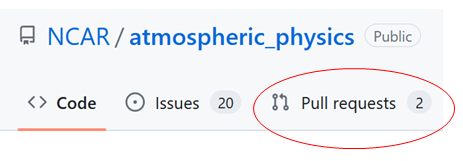
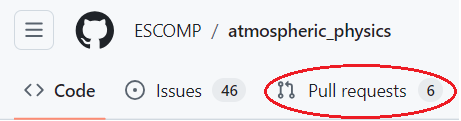
wee cleanup

diff --git a/docs/atmospheric_physics/development_workflow.md b/docs/atmospheric_physics/development_workflow.md
@@ -1,18 +1,18 @@
 # Development workflow for atmospheric_physics
 
-This page describes the general workflow for adding new developments to the [atmospheric_physics](https://github.com/ESCOMP/atmospheric_physics) repo, which is the location of all CGD developed CCPP-ized physics schemes and Suite Definition Files (SDFs).
+This page describes the general workflow for adding new developments to the [atmospheric_physics](https://github.com/ESCOMP/atmospheric_physics) repo, which is the location of all CGD-developed CCPP-ized physics schemes and Suite Definition Files (SDFs).
 
 ## Workflow summary
 
 The general workflow for adding a feature, bug-fix, or modification to atmospheric_physics is as follows:
 
-  1.  **Open an issue.**
-  2.  **Add your code modifications to a branch on your fork.**
-  3.  **Open a PR from your branch to the `development` branch.**
+  1.  [**Open an issue.**](#1-open-an-issue)
+  2.  **[Add your code modifications](#3-update-your-code-with-changes-from-the-official-repo) to a branch on your [fork](#2-create-a-fork-if-you-havent-already).**
+  3.  **[Open a PR](#5-creating-a-pull-request-pr) from your branch to the `development` branch.**
   4.  **Respond to any reviewer requests.**
   5.  **Fix any failing tests.**
-  6.  **Update `doc/NamesNotInDictionary.txt` file.**
-  7.  **If you know that this PR will need an official tag, then also add the tag name to the PR description.**
+  6.  **[Update `doc/NamesNotInDictionary.txt` file.](#updating-namesnotindictionarytxt-file)**
+  7.  **If you know that this PR will need an official tag, then also add the [tag name](Tagging-Instructions.md/#tag-naming-conventions) to the PR description.**
   8.  **Squash the commits and merge the PR (e.g. the "squash and merge" option).**
 
 If you need an official tag for your new additions, then once your `development` PR has been merged you will need to do the following:
@@ -32,7 +32,7 @@ It is generally recommended to [open an issue](https://github.com/ESCOMP/atmosph
 
 ### 2.  Create a fork (if you haven't already).
 
-We generally recommend creating a fork of the atmospheric_physics repo, and doing all of the development there.  Instructions for how to setup a fork, and how to configure git in general, can be [found here](https://escomp.github.io/CAM-SIMA-docs/development/git-basics/).
+We recommend creating a fork of the atmospheric_physics repo, and doing all of the development there.  Instructions for how to set up a fork, and how to configure git in general, can be [found here](../../development/git-basics/).
 
 ### 3. Update your code with changes from the official repo.
 
@@ -41,16 +41,16 @@ We generally recommend creating a fork of the atmospheric_physics repo, and doin
 ```
    git clone https://github.com/<GitHub userid>/atmospheric_physics
    cd atmospheric_physics
-   git remote add upstream https://github.com/NCAR/atmospheric_physics.git
+   git remote add upstream https://github.com/ESCOMP/atmospheric_physics.git
 ```
 
-**2.  Fetch the latest version of the NCAR repo:**
+**2.  Fetch the latest version of the ESCOMP repo:**
 
 ```
    git fetch upstream
 ```
 
-**3.  Rebase your local forked branch to the NCAR version.  For example, assuming you are working on a local branch called `feature`:**
+**3.  Rebase your local forked branch to the ESCOMP version.  For example, assuming you are working on a local branch called `feature`:**
 
 ```
    git checkout feature
@@ -75,10 +75,10 @@ Of course, if you run into any problems with either method then please create a 
 
 ### 4. Committing code
 
-**1. Create a new branch:**
+**1. Create a new branch off of the ESCOMP development branch:**
 
 ```
-   git checkout -b cool_new_feature
+   git checkout -b cool_new_feature upstream/development
 ```
 
 where `cool_new_feature` is an example branch name (you can use any name you want).  Next, push that new branch to your fork on Github:
@@ -87,7 +87,7 @@ where `cool_new_feature` is an example branch name (you can use any name you wan
    git push -u origin cool_new_feature
 ```
 
-**2.  Apply your code modifications and/or script additions, and perform at least one test making sure that your modifications works as expected.**
+**2.  Apply your code modifications and/or script additions, and perform at least one test making sure that your modifications work as expected.**
 
 **3.  Add all the files that you want to commit.  There are multiple ways to do this, but one of the safer ways is to first check your status:**
 
@@ -125,7 +125,7 @@ where `<message>` is a short descriptor or sentence stating what the commits are
 
 ### 5. Creating a Pull Request (PR)
 
-**1.  Go to the NCAR atmospheric_physics repo, and click on the "Pull requests" tab.**
+**1.  Go to the [ESCOMP atmospheric_physics repo](https://github.com/ESCOMP/atmospheric_physics), and click on the "Pull requests" tab.**
 
 ![text](figures/atm_phys_PR_tab_circle.png "Pull requests tab")
 
@@ -137,7 +137,7 @@ where `<message>` is a short descriptor or sentence stating what the commits are
 
  ![text](figures/compare_forks_link.png "Compare forks")
 
-**4.  You should now see two new pull down boxes (to the right of an arrow).  Using those pull down boxes, select your fork (which should be `<username>/atmospheric_physics`):**
+**4.  You should now see two new pull down boxes (to the right of an arrow).  Using those pull down boxes, select the "development" branch of the ESCOMP repo and select your fork (which should be `<username>/atmospheric_physics`):**
 
  ![text](figures/fork_repo_dropdown.png "fork select list")
 
@@ -157,9 +157,9 @@ where `<message>` is a short descriptor or sentence stating what the commits are
 
 **9.  Fix any failing tests that show up on Github.**
 
-**10.  If you get any change requests during code review, then simply apply those changes in the same way you applied your original modifications.  Please note that once you `push` your changes then the PR will automatically be updated.**
+**10.  If you get any change requests during code review, then simply apply those changes in the same way you applied your original modifications.  Please note that once you `push` your changes then the PR will automatically be updated and the GitHub tests will be automatically run.**
 
-**11.  Update the `NamesNotInDictionary.txt` file using the instructions below.**
+**11.  Update the `NamesNotInDictionary.txt` file using the instructions [below](#updating-namesnotindictionarytxt-file).**
 
 **12.  Once all reviewers sign off on your modifications, then the PR will be squashed and merged.  Congratulations!  Your code is now in atmospheric_physics!**
 
@@ -196,5 +196,5 @@ Once your modifications have been merged into the official CAM repo, you may hav
 **3.   Finally, remove branch from personal fork repo:**
 ```
     git push --delete <origin> <branch_name>
-````
+```
    You can also remove the branch via GitHub's [user interface](https://help.github.com/en/articles/creating-and-deleting-branches-within-your-repository#deleting-a-branch).

diff --git a/docs/design/directory-structure.md b/docs/design/directory-structure.md
@@ -10,7 +10,7 @@ Please note that any modifications to the source code in these directories shoul
 
 ### **bin/**
 
-Contains the `git-fleximmod` tool for downloading needed source code and software from external repositories.  More information on `git-fleximod` can be found [here](https://github.com/ESMCI/git-fleximod).
+Contains the `git-fleximod` tool for downloading needed source code and software from external repositories.  More information on `git-fleximod` can be found [here](https://github.com/ESMCI/git-fleximod).
 
 ### **ccpp_framework/**
 
@@ -22,18 +22,18 @@ Contains the configuration files used by CIME to properly configure and build a 
 
 ### **cime/**
 
-Contains the [Common Infrastructure for Modeling the Earth (CIME)](https://github.com/ESMCI/cime) tools and associated libraries.  Used by CAM-SIMA and CESM for the general configuration and building of a simulation (or "case").
+Contains the [Common Infrastructure for Modeling the Earth (CIME)](https://github.com/ESMCI/cime) tools and associated libraries.  Used by CAM-SIMA and CESM for the general configuration and building of a simulation (or "case"). See more on CIME usage in the [Creating, configuring, and running a case](../usage/creating-a-case.md) section.
 
 ### **components/**
 
 Contains the following other CESM components:
 
 - [Community Data Models for Earth Prediction Systems (CDEPS)](https://github.com/ESCOMP/CDEPS)
-- [CICE sea ice model](https://github.com/ESCOMP/CESM_CICE)
+- [Community Ice CodE sea ice model (CICE)](https://github.com/ESCOMP/CESM_CICE)
 - [Community Ice Sheet Model (CISM)](https://github.com/ESCOMP/CISM-wrapper)
 - [Community Terrestrial Systems Model (CTSM/CLM)](https://github.com/ESCOMP/CTSM)
 - [Community Mediator for Earth Prediction Systems (CMEPS)](https://github.com/ESCOMP/CMEPS)
-- [mizuRoute](https://github.com/ESCOMP/mizuRoute)
+- [Reach-based river routing model (mizuRoute)](https://github.com/ESCOMP/mizuRoute)
 - [MOdel for Scale Adaptive River Transport (MOSART)](https://github.com/ESCOMP/MOSART)
 - [River Transport Model (RTM)](https://github.com/ESCOMP/RTM)
 
@@ -68,7 +68,7 @@ Contains files needed to run certain CAM-SIMA configurations in a docker contain
 
 ### **src/**
 
-Contains all of the SIMA-specific source code needed to run the model. Additional details can be found below in the "Source directories" section.
+Contains all of the SIMA-specific source code needed to run the model. Additional details can be found below in the [Source directories](#source-src-directories) section.
 
 ### **test/**
 
@@ -110,7 +110,7 @@ Contains all of the dynamical core (dycore) source code.
 
 **Subdirectories**:
 
-- mpas/ - Contains all of the source code needed for SIMA to properly couple to the [MPAS dynamical core](https://github.com/MPAS-Dev/MPAS-Model).
+- mpas/ - Contains all of the source code needed for SIMA to properly couple to the [Model for Prediction Across Scales (MPAS) dynamical core](https://github.com/MPAS-Dev/MPAS-Model).
     - dycore/ (external) - External submodule that contains the MPAS dycore code.
 - none/ - Contains the "null" dycore source code, which allows physics and chemistry routines to be forced with atmospheric data coming directly from input files as opposed to dycore calculations.
 - se/ - Contains all of the source code needed for SIMA to properly couple to the [Spectral Element dynamical core](https://ncar.github.io/CAM/doc/build/html/cam5_scientific_guide/dynamics.html#spectral-element-dynamical-core).
@@ -126,6 +126,7 @@ Contains all of the SIMA physics and chemistry source code.
 **Subdirectories**:
 
 - ncar_ccpp/ (external) - External submodule that contains all of the code in the [atmospheric_physics](https://github.com/ESCOMP/atmospheric_physics) repo.
+    - The directory structure for atmospheric_physics can be found in the [atmospheric_physics directory structure](../atmospheric_physics/directory-structure.md) section.
 - utils/ - Contains SIMA-specific utility routines for working with the CCPP-framework and CCPP-ized physics routines.
 
 ### **utils/**

diff --git a/docs/atmospheric_physics/directory-structure.md b/docs/atmospheric_physics/directory-structure.md
@@ -4,23 +4,23 @@ This page lists out the directory structure for the [atmospheric_physics](https:
 
 ## Top-level directories
 
-These directories represent code and tools that is solely contained within the atmospheric_physics repository.  If there is a sub-directory that is also an external submodule or repository it will be marked with the "(external)" label.
+These directories represent code and tools that are contained within the atmospheric_physics repository.
 
 ### **doc/**
 
-Contains files used to document the current state of the atmospheric_physics repository, such as a `ChangeLog` and the `NamesNotInDictionary.txt` file which lists all standard names that are currently  not in the official [CCPP Standard Names repo](https://github.com/ESCOMP/CCPPStandardNames).
+Contains files used to document the current state of the atmospheric_physics repository, such as a `ChangeLog` and the `NamesNotInDictionary.txt` file which lists all standard names that are currently not in the official [CCPP Standard Names repo](https://github.com/ESCOMP/CCPPStandardNames). More on the NamesNotInDictionary.txt file [here](development_workflow.md/#updating-namesnotindictionarytxt-file).
 
 ### **schemes/**
 
 Contains subdirectories for all of the CCPP-ized physics schemes, with the subdirectories containing the core physics scheme source code,
-the associated CCPP metadata files, namelist XML files, and any relevant depdendency files.
+the associated CCPP metadata files, namelist XML files, and any relevant dependency files.
 
 Note that there is a special `to_be_ccppized` subdirectory which contains source code that is needed by certain CCPP physics schemes, but which is not
-yet fully CCPP compliant (e.g. may have code that is host-model specific).
+yet fully CCPP compliant (e.g. may have code that is host-model-specific).
 
 ### **suites/**
 
-Contains CCPP Suite Definition Files (SDFs) for official scientific and production configurations of the CAM-SIMA host model.
+Contains [CCPP Suite Definition Files (SDFs)](https://ccpp-techdoc.readthedocs.io/en/v6.0.0/ConstructingSuite.html?highlight=sdf#constructing-suites) for official scientific and production configurations of the CAM-SIMA host model.
 
 ### **test/**
 
@@ -29,7 +29,7 @@ Contains code and tools used to run tests on the CCPP-ized physics schemes.
 **Subdirectories**:
 
 - cmake   - Contains cmake files needed to configure and build  unit tests.
-- docker  - Contains dockerfiles needed to configure, butild, and run unit tests.
+- docker  - Contains dockerfiles needed to configure, build, and run unit tests.
 - include - Contains utility source code needed to build and run unit tests.
-- musica  - Contains test code for the CCPP-ized [Multie-Scale Infrastructure for Chemistry Modeling (MUSICA)](https://github.com/NCAR/musica) components.
+- musica  - Contains test code for the CCPP-ized [Multi-Scale Infrastructure for Chemistry Modeling (MUSICA)](https://github.com/NCAR/musica) components.
 - test_suites - Contains test SDFs for use in CAM-SIMA snapshot regression testing.

diff --git a/docs/atmospheric_physics/Tagging-Instructions.md b/docs/atmospheric_physics/Tagging-Instructions.md
@@ -3,7 +3,7 @@
 This page lists instructions for how to create a new atmospheric_physics tag.  A few rules:
 
 1.  Tags should always be annotated (no lightweight tags).
-2.  Tags should follow the naming convention listed below.
+2.  Tags should follow the naming convention listed [below](#tag-naming-conventions).
 3.  Tags should point to merge commits into the main branch.
 4.  Tags can only be created by people who have write access.
 
@@ -14,7 +14,7 @@ You can create a new atmospheric_physics tag, assuming you have git installed on
 **1.  Download the latest version of the repo:**
 
 ```
-git clone https://github.com/NCAR/atmospheric_physics.git
+git clone https://github.com/ESCOMP/atmospheric_physics.git
 cd atmospheric_physics
 ```
 
@@ -44,15 +44,15 @@ Where `<tag>` is the new tag name (which should follow the naming convention sho
 
 `git push origin <tag>`
 
-After which the new tag should now exist in the NCAR/atmospheric_physics repo.
+After which the new tag should now exist in the ESCOMP/atmospheric_physics repo.
 
 ## Tag naming conventions
 
-All NCAR/atmospheric_physics tags for the main branch should look like the following:
+All ESCOMP/atmospheric_physics tags for the main branch should look like the following:
 
 `atmos_physX_YY_ZZZ`
 
-While all tags for the development tag should be:
+While all tags for the development branch should be:
 
 `dev_atmos_physX_YY_ZZZ`
 
